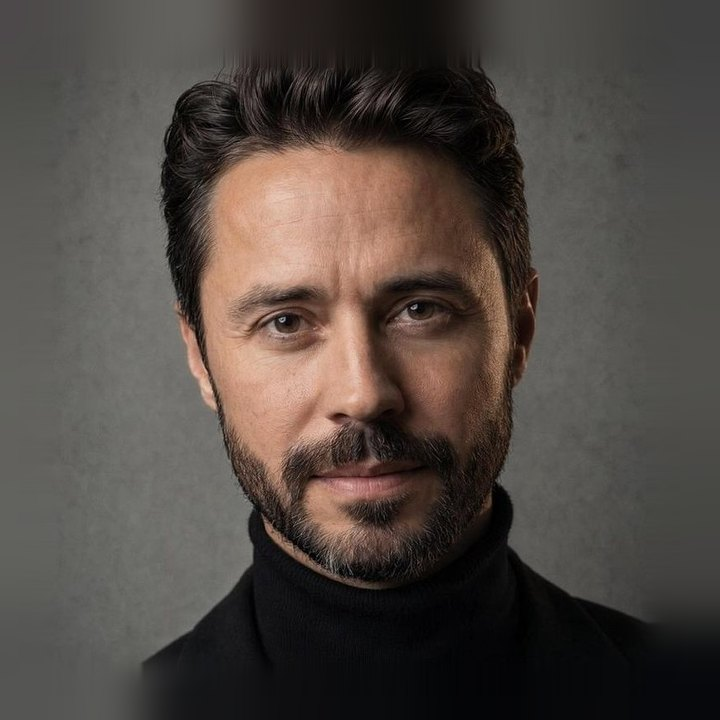
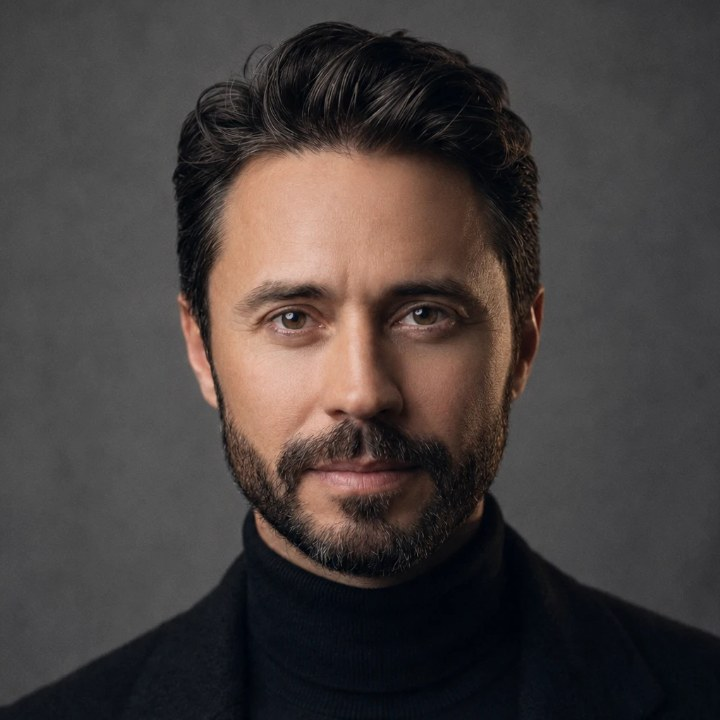
team: новое фото Александра в «Руководстве»

diff --git a/team/index.html b/team/index.html
@@ -385,7 +385,7 @@
           <p>«Приговор» — «Отечественный фильм года» Freedom Ticketon Awards, «Қара бекіре», сериал «Шекер» (Пусан). Член Национальной киноакадемии и Альянса креативных индустрий.</p>
         </div>
         <div class="p">
-          <div class="ph"><img src="assets/lead-aleksandr-andreyanov.jpg" alt="Александр Андреянов" width="720" height="720" loading="lazy"></div>
+          <div class="ph"><img src="assets/lead-aleksandr-andreyanov.jpg?v=2" alt="Александр Андреянов" width="720" height="720" loading="lazy"></div>
           <div class="n">Александр Андреянов</div>
           <div class="r">Основатель Neyra Vision · продюсер · сопродюсер Taurus Asia Production</div>
           <p>Шоураннер AI-производства. «Nusantara: The Story of Gajah Mada» — AI Film Awards Cannes 2025. Со-архитектор KADIN AI Academy. Спикер EFM 2026.</p>
